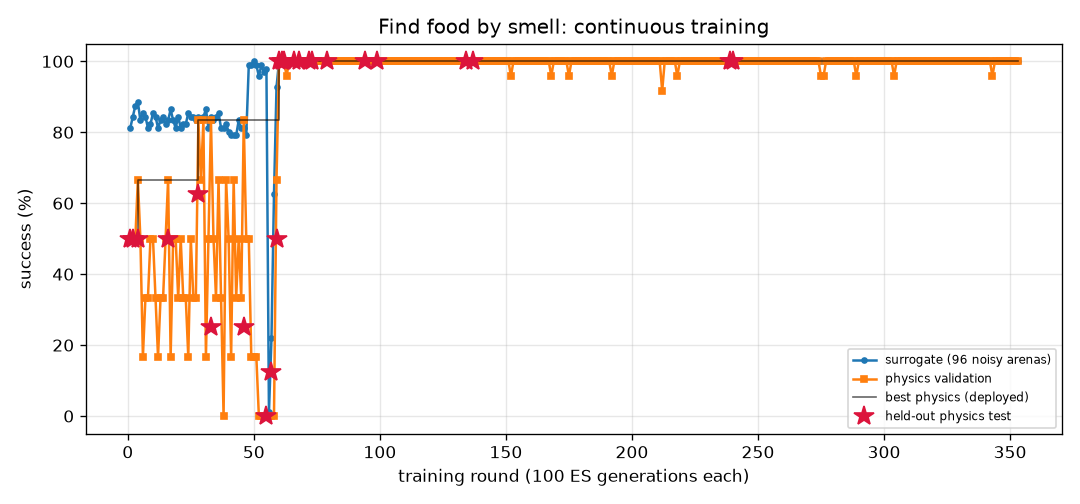
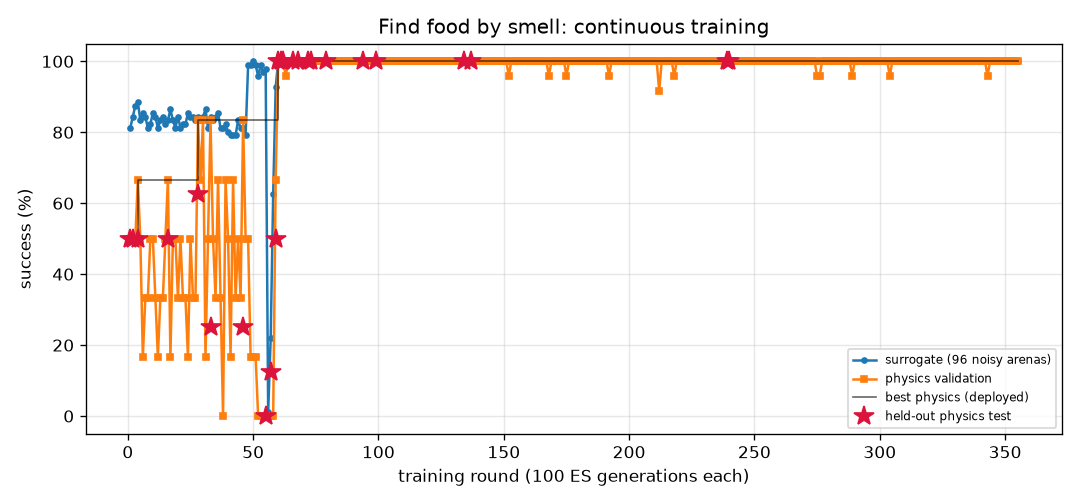
FlyLab: continuous training progress
- walk_forward: optimal, physics val 100% of 24, round 574
- turn: optimal, physics val 100% of 24, round 1419
- goto: optimal, physics val 100% of 24, round 442
- odor_seek: optimal, physics val 100% of 24, round 355
- odor_avoid: optimal, physics val 100% of 24, round 1186
- light_seek: optimal, physics val 100% of 24, round 647
- light_avoid: optimal, physics val 100% of 24, round 901

diff --git a/projects/09_flylab/training/turn/REPORT.md b/projects/09_flylab/training/turn/REPORT.md
@@ -1,14 +1,14 @@
 # Turn in place (`turn`) — training report
 
-*Auto-generated by `train_brains.py`, last updated 2026-11-27T19:29:56.*
+*Auto-generated by `train_brains.py`, last updated 2026-11-27T22:52:23.*
 
 ![curve](curve.png)
 
 | | |
 |---|---|
-| rounds | 1416 |
-| ES generations | 141600 |
-| physics runs | 34230 |
+| rounds | 1419 |
+| ES generations | 141900 |
+| physics runs | 34302 |
 | status | **optimal** |
 | best brain | round 80: physics validation **100%** on 24 arenas, surrogate 100% |
 | held-out physics test | **97%** on 32 unseen arenas (95% CI 84%-99%) (errors: [1.6, 3.3, 6.3, 3.7, 1.1, 0.4, 2.4, 2.9, 0.1, 2.6, 0.5, 2.7, 1.5, 3.1, 4.5, 0.2, 0.5, 1.1, 2.0, 4.4, 2.8, 3.2, 0.3, 2.2, 0.5, 3.0, 0.3, 5.4, 0.4, 1.0, 4.7, 10.7]) |
@@ -17,9 +17,6 @@ Physics error per arena: deg from target heading (< 20 = success).
 
 | round | level | gens | sigma | surrogate | physics val | val errors | test | note |
 |---:|---:|---:|---:|---:|---:|---|---:|---|
-| 1377 | 3 | 137700 | 0.024 | 100% | 88% | [3.9, 6.4, 1.0, 2.6, 12.5, 1.9, 5.1, 4.9, 4.3, 15.0, 3.4, 0.4, 0.4, 2.3, 4.4, 5.1, 0.2, 0.9, 6.0, 3.9, 3.8, 1.8, 4.3, 3.6] |  |  |
-| 1378 | 3 | 137800 | 0.024 | 97% | 71% | [10.1, 10.3, 3.8, 0.9, 4.8, 3.4, 4.4, 8.4, 3.8, 2.2, 2.1, 3.7, 1.4, 1.3, 2.4, 3.3, 4.7, 0.4, 2.9, 5.7, 5.0, 1.1, 1.9, 2.0] |  |  |
-| 1379 | 3 | 137900 | 0.026 | 100% | 96% | [0.1, 6.9, 0.5, 0.9, 3.7, 1.1, 5.9, 2.1, 5.0, 0.7, 4.3, 0.6, 1.5, 2.2, 3.9, 2.5, 0.6, 0.9, 1.4, 1.6, 3.3, 0.6, 5.3, 4.6] |  |  |
 | 1380 | 3 | 138000 | 0.024 | 100% | 75% | [0.6, 2.8, 7.3, 0.7, 0.1, 0.6, 7.0, 2.4, 6.0, 1.1, 6.2, 0.8, 0.9, 1.9, 6.7, 1.4, 0.6, 1.9, 1.1, 1.6, 3.2, 0.6, 5.9, 8.5] |  | restart from best |
 | 1381 | 3 | 138100 | 0.024 | 99% | 79% | [4.2, 8.0, 0.6, 1.9, 4.1, 2.4, 3.5, 5.4, 2.7, 1.1, 2.5, 1.5, 2.4, 4.3, 3.6, 1.3, 1.5, 0.4, 1.3, 0.8, 7.1, 0.6, 5.0, 1.7] |  |  |
 | 1382 | 3 | 138200 | 0.025 | 100% | 92% | [0.3, 5.4, 1.3, 1.7, 1.5, 2.2, 5.6, 3.6, 5.8, 0.4, 4.0, 0.5, 2.7, 2.8, 4.3, 0.6, 0.9, 0.7, 0.1, 0.1, 1.9, 1.0, 0.4, 3.6] |  |  |
@@ -57,3 +54,6 @@ Physics error per arena: deg from target heading (< 20 = success).
 | 1414 | 3 | 141400 | 0.024 | 99% | 83% | [6.8, 8.8, 1.8, 2.8, 3.0, 0.0, 2.0, 0.8, 2.2, 0.5, 1.8, 3.0, 0.2, 4.8, 1.7, 2.4, 2.7, 0.5, 2.1, 2.1, 7.3, 1.2, 5.7, 1.0] |  |  |
 | 1415 | 3 | 141500 | 0.025 | 99% | 75% | [6.6, 1.1, 4.2, 0.3, 7.4, 0.3, 7.8, 0.8, 6.8, 0.8, 6.7, 3.2, 2.0, 0.1, 5.0, 3.1, 3.5, 3.6, 3.1, 0.1, 4.0, 3.8, 6.2, 6.1] |  |  |
 | 1416 | 3 | 141600 | 0.025 | 100% | 75% | [6.3, 7.4, 1.7, 1.8, 2.0, 1.7, 3.8, 0.1, 4.6, 0.1, 2.5, 1.6, 0.1, 4.0, 2.4, 1.5, 1.7, 0.4, 1.0, 0.8, 7.3, 0.5, 4.6, 0.9] |  | restart from best |
+| 1417 | 3 | 141700 | 0.024 | 100% | 71% | [6.5, 2.9, 3.2, 0.9, 18.6, 2.0, 7.0, 0.0, 6.0, 0.8, 4.0, 1.1, 0.5, 3.5, 5.3, 0.4, 1.4, 1.3, 0.6, 1.6, 4.5, 1.6, 6.2, 7.1] |  |  |
+| 1418 | 3 | 141800 | 0.024 | 100% | 100% | [1.6, 3.2, 8.7, 0.9, 14.1, 1.6, 8.3, 10.4, 8.0, 3.6, 4.7, 3.0, 0.4, 0.4, 4.9, 4.9, 3.1, 4.6, 4.1, 5.2, 2.4, 2.9, 7.7, 8.4] |  |  |
+| 1419 | 3 | 141900 | 0.024 | 99% | 92% | [2.2, 3.5, 1.9, 1.2, 0.4, 2.8, 4.4, 0.3, 4.5, 0.9, 3.5, 0.4, 2.6, 2.2, 4.0, 0.2, 0.1, 1.0, 1.3, 0.2, 3.3, 0.7, 5.8, 6.8] |  |  |

diff --git a/projects/09_flylab/training/odor_seek/REPORT.md b/projects/09_flylab/training/odor_seek/REPORT.md
@@ -1,14 +1,14 @@
 # Find food by smell (`odor_seek`) — training report
 
-*Auto-generated by `train_brains.py`, last updated 2026-11-27T18:39:19.*
+*Auto-generated by `train_brains.py`, last updated 2026-11-27T22:55:41.*
 
 ![curve](curve.png)
 
 | | |
 |---|---|
-| rounds | 353 |
-| ES generations | 35300 |
-| physics runs | 7966 |
+| rounds | 355 |
+| ES generations | 35500 |
+| physics runs | 8014 |
 | status | **optimal** |
 | best brain | round 240: physics validation **100%** on 24 arenas, surrogate 100% |
 | held-out physics test | **100%** on 32 unseen arenas (95% CI 89%-100%) (errors: [0.02, 0.03, 0.03, 0.05, 0.04, 0.05, 0.06, 0.07, 0.09, 0.05, 0.05, 0.01, 0.12, 0.03, 0.07, 0.08, 0.02, 0.06, 0.03, 0.04, 0.0, 0.01, 0.09, 0.05, 0.04, 0.01, 0.07, 0.05, 0.08, 0.05, 0.05, 0.02]) |
@@ -17,8 +17,6 @@ Physics error per arena: mm from target at the end (< 1.5 and standing still = s
 
 | round | level | gens | sigma | surrogate | physics val | val errors | test | note |
 |---:|---:|---:|---:|---:|---:|---|---:|---|
-| 314 | 3 | 31400 | 0.024 | 100% | 100% | [0.15, 0.13, 0.22, 0.14, 0.16, 0.14, 0.12, 0.15, 0.14, 0.14, 0.13, 0.18, 0.14, 0.2, 0.15, 0.16, 0.18, 0.12, 0.17, 0.22, 0.16, 0.21, 0.15, 0.17] |  |  |
-| 315 | 3 | 31500 | 0.024 | 100% | 100% | [0.17, 0.11, 0.24, 0.19, 0.18, 0.19, 0.18, 0.12, 0.32, 0.19, 0.19, 0.23, 0.15, 0.23, 0.19, 0.15, 0.21, 0.16, 0.18, 0.28, 0.16, 0.15, 0.27, 0.13] |  |  |
 | 316 | 3 | 31600 | 0.024 | 100% | 100% | [0.08, 0.2, 0.16, 0.17, 0.1, 0.2, 0.12, 0.25, 0.21, 0.2, 0.13, 0.14, 0.14, 0.12, 0.21, 0.16, 0.16, 0.17, 0.16, 0.09, 0.1, 0.12, 0.14, 0.12] |  | restart from best |
 | 317 | 3 | 31700 | 0.024 | 100% | 100% | [0.14, 0.13, 0.14, 0.18, 0.13, 0.17, 0.16, 0.2, 0.12, 0.13, 0.15, 0.21, 0.16, 0.18, 0.2, 0.11, 0.12, 0.16, 0.17, 0.17, 0.21, 0.12, 0.19, 0.13] |  |  |
 | 318 | 3 | 31800 | 0.024 | 100% | 100% | [0.12, 0.12, 0.12, 0.1, 0.14, 0.12, 0.11, 0.18, 0.14, 0.16, 0.11, 0.13, 0.13, 0.15, 0.14, 0.08, 0.17, 0.17, 0.14, 0.18, 0.08, 0.09, 0.09, 0.19] |  |  |
@@ -57,3 +55,5 @@ Physics error per arena: mm from target at the end (< 1.5 and standing still = s
 | 351 | 3 | 35100 | 0.024 | 100% | 100% | [0.15, 0.13, 0.17, 0.13, 0.1, 0.11, 0.16, 0.18, 0.12, 0.05, 0.12, 0.13, 0.19, 0.11, 0.14, 0.1, 0.09, 0.18, 0.16, 0.17, 0.14, 0.16, 0.12, 0.16] |  |  |
 | 352 | 3 | 35200 | 0.024 | 100% | 100% | [0.26, 0.2, 0.26, 0.27, 0.18, 0.25, 0.18, 0.23, 0.25, 0.24, 0.26, 0.24, 0.24, 0.19, 0.25, 0.18, 0.18, 0.18, 0.21, 0.27, 0.22, 0.23, 0.19, 0.27] |  | restart from best |
 | 353 | 3 | 35300 | 0.024 | 100% | 100% | [0.11, 0.13, 0.07, 0.05, 0.09, 0.13, 0.13, 0.15, 0.07, 0.1, 0.15, 0.11, 0.05, 0.15, 0.15, 0.18, 0.06, 0.08, 0.19, 0.05, 0.14, 0.09, 0.1, 0.1] |  |  |
+| 354 | 3 | 35400 | 0.024 | 100% | 100% | [0.08, 0.14, 0.13, 0.07, 0.1, 0.09, 0.06, 0.05, 0.03, 0.06, 0.03, 0.07, 0.11, 0.08, 0.08, 0.22, 0.05, 0.05, 0.09, 0.18, 0.17, 0.08, 0.11, 0.05] |  |  |
+| 355 | 3 | 35500 | 0.024 | 100% | 100% | [0.18, 0.12, 0.16, 0.16, 0.14, 0.1, 0.22, 0.16, 0.18, 0.2, 0.18, 0.17, 0.17, 0.21, 0.18, 0.17, 0.16, 0.15, 0.15, 0.23, 0.14, 0.13, 0.21, 0.13] |  |  |

diff --git a/projects/09_flylab/training/walk_forward/REPORT.md b/projects/09_flylab/training/walk_forward/REPORT.md
@@ -1,14 +1,14 @@
 # Walk forward (`walk_forward`) — training report
 
-*Auto-generated by `train_brains.py`, last updated 2026-11-27T21:48:49.*
+*Auto-generated by `train_brains.py`, last updated 2026-11-27T22:05:27.*
 
 ![curve](curve.png)
 
 | | |
 |---|---|
-| rounds | 573 |
-| ES generations | 57300 |
-| physics runs | 13830 |
+| rounds | 574 |
+| ES generations | 57400 |
+| physics runs | 13854 |
 | status | **optimal** |
 | best brain | round 485: physics validation **100%** on 24 arenas, surrogate 100% |
 | held-out physics test | **100%** on 32 unseen arenas (95% CI 89%-100%) (errors: [0.14, 0.13, 0.15, 0.21, 0.14, 0.12, 0.13, 0.18, 0.2, 0.15, 0.13, 0.14, 0.2, 0.15, 0.12, 0.12, 0.14, 0.14, 0.13, 0.13, 0.14, 0.21, 0.14, 0.13, 0.14, 0.14, 0.18, 0.14, 0.14, 0.14, 0.17, 0.15]) |
@@ -17,7 +17,6 @@ Physics error per arena: mm from target at the end (< 1.5 and standing still = s
 
 | round | level | gens | sigma | surrogate | physics val | val errors | test | note |
 |---:|---:|---:|---:|---:|---:|---|---:|---|
-| 534 | 3 | 53400 | 0.024 | 100% | 100% | [0.28, 0.35, 0.04, 0.28, 0.35, 0.04, 0.34, 0.22, 0.34, 0.34, 0.04, 0.32, 0.24, 0.23, 0.31, 0.33, 0.26, 0.34, 0.24, 0.32, 0.25, 0.34, 0.31, 0.23] |  |  |
 | 535 | 3 | 53500 | 0.024 | 100% | 100% | [0.16, 0.23, 0.19, 0.16, 0.23, 0.18, 0.25, 0.17, 0.24, 0.28, 0.19, 0.28, 0.17, 0.18, 0.16, 0.29, 0.16, 0.21, 0.17, 0.17, 0.17, 0.29, 0.28, 0.17] |  |  |
 | 536 | 3 | 53600 | 0.024 | 100% | 96% | [0.19, 0.28, 0.02, 0.19, 0.29, 0.22, 0.3, 0.19, 0.29, 0.31, 0.21, 0.28, 0.04, 0.23, 0.21, 0.3, 0.02, 0.26, 0.1, 0.23, 0.05, 0.3, 0.27, 0.06] |  |  |
 | 537 | 3 | 53700 | 0.024 | 100% | 71% | [1.11, 0.17, 0.06, 1.85, 0.16, 0.26, 0.19, 0.05, 0.17, 0.24, 0.21, 0.22, 1.23, 0.06, 0.54, 0.23, 0.04, 0.12, 0.04, 0.22, 0.03, 0.24, 0.21, 0.05] |  | restart from best |
@@ -57,3 +56,4 @@ Physics error per arena: mm from target at the end (< 1.5 and standing still = s
 | 571 | 3 | 57100 | 0.024 | 100% | 83% | [0.05, 0.17, 0.07, 0.04, 0.16, 0.45, 0.18, 0.05, 0.17, 0.21, 0.3, 0.22, 0.06, 0.08, 0.06, 0.22, 2.21, 0.08, 0.05, 0.09, 1.79, 0.22, 0.22, 0.06] |  |  |
 | 572 | 3 | 57200 | 0.024 | 100% | 92% | [0.38, 0.16, 0.05, 0.51, 0.16, 0.03, 0.18, 0.07, 0.17, 0.2, 0.08, 0.21, 0.07, 0.37, 0.89, 0.21, 0.78, 0.14, 0.07, 0.1, 0.06, 0.21, 0.21, 0.08] |  |  |
 | 573 | 3 | 57300 | 0.024 | 100% | 100% | [0.2, 0.22, 0.15, 0.2, 0.22, 0.15, 0.23, 0.18, 0.22, 0.21, 0.14, 0.2, 0.17, 0.14, 0.21, 0.21, 0.19, 0.22, 0.17, 0.21, 0.18, 0.21, 0.19, 0.18] |  | restart from best |
+| 574 | 3 | 57400 | 0.024 | 99% | 92% | [0.16, 0.06, 0.16, 0.17, 0.05, 0.16, 0.07, 0.09, 0.09, 0.11, 0.17, 0.19, 0.14, 0.16, 0.27, 0.11, 0.14, 0.09, 0.13, 0.12, 0.16, 0.22, 0.2, 0.15] |  |  |

diff --git a/projects/09_flylab/training/TRAINING.md b/projects/09_flylab/training/TRAINING.md
@@ -1,15 +1,15 @@
 # FlyLab brains — continuous training log
 
-*Auto-generated by `train_brains.py`, last updated 2026-11-27T21:48:49.*
+*Auto-generated by `train_brains.py`, last updated 2026-11-27T22:55:41.*
 
 Every skill has its own brain and its own training process: surrogate ES rounds, physics validation in MuJoCo, keep-the-best selection, and a held-out physics test that is never used for selection. See each skill's report for its full round-by-round history. Mastery is progressive: passing a level (100% physics validation, >=95% surrogate) doubles the validation and test arena sets; a brain is **optimal** once it holds up at level 3 (>=95% of 24 validation arenas) AND scores >=90% on the 32 held-out test arenas. Test columns show 95% Wilson confidence intervals.
 
 | skill | rounds | ES generations | physics runs | surrogate | physics val | **physics test** | status |
 |---|---:|---:|---:|---:|---:|---:|---|
-| [Walk forward](walk_forward/REPORT.md) | 573 | 57300 | 13830 | 100% | 100% of 24 | 100% of 32 (CI 89-100%) | **optimal** |
-| [Turn in place](turn/REPORT.md) | 1416 | 141600 | 34230 | 100% | 100% of 24 | 97% of 32 (CI 84-99%) | **optimal** |
+| [Walk forward](walk_forward/REPORT.md) | 574 | 57400 | 13854 | 100% | 100% of 24 | 100% of 32 (CI 89-100%) | **optimal** |
+| [Turn in place](turn/REPORT.md) | 1419 | 141900 | 34302 | 100% | 100% of 24 | 97% of 32 (CI 84-99%) | **optimal** |
 | [Go to a location](goto/REPORT.md) | 442 | 44200 | 10558 | 100% | 100% of 24 | 100% of 32 (CI 89-100%) | **optimal** |
-| [Find food by smell](odor_seek/REPORT.md) | 353 | 35300 | 7966 | 100% | 100% of 24 | 100% of 32 (CI 89-100%) | **optimal** |
+| [Find food by smell](odor_seek/REPORT.md) | 355 | 35500 | 8014 | 100% | 100% of 24 | 100% of 32 (CI 89-100%) | **optimal** |
 | [Escape a bad smell](odor_avoid/REPORT.md) | 1186 | 118600 | 25770 | 97% | 100% of 24 | 97% of 32 (CI 84-99%) | **optimal** |
 | [Walk toward light](light_seek/REPORT.md) | 647 | 64700 | 12408 | 100% | 100% of 24 | 100% of 32 (CI 89-100%) | **optimal** |
 | [Hide from light](light_avoid/REPORT.md) | 901 | 90100 | 21896 | 100% | 100% of 24 | 100% of 32 (CI 89-100%) | **optimal** |
